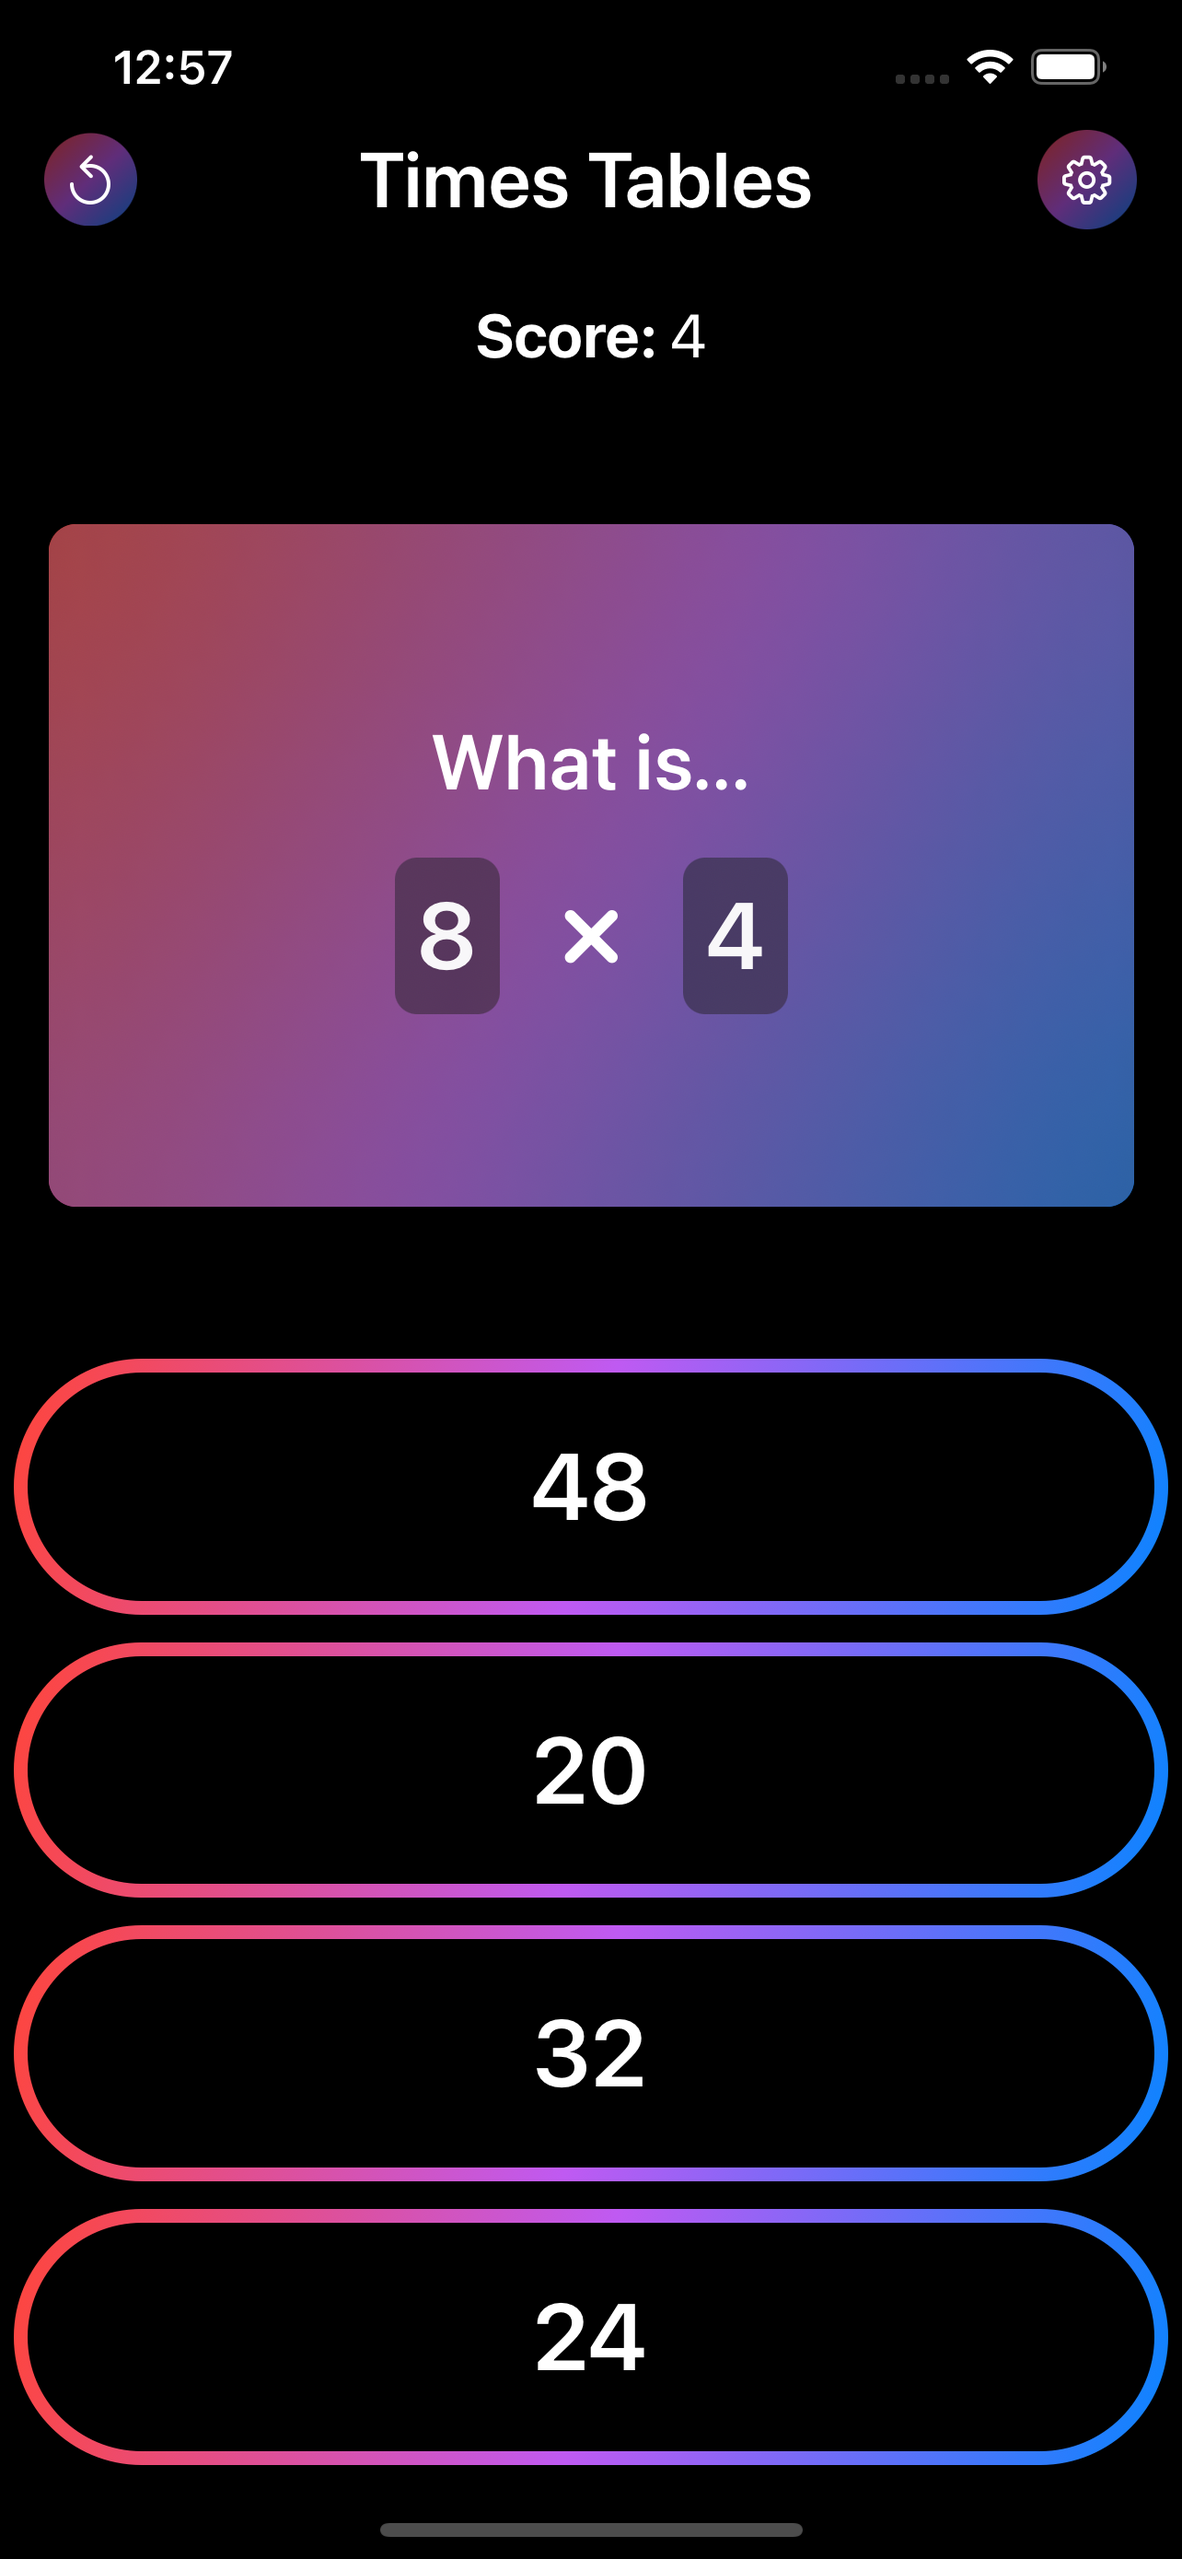
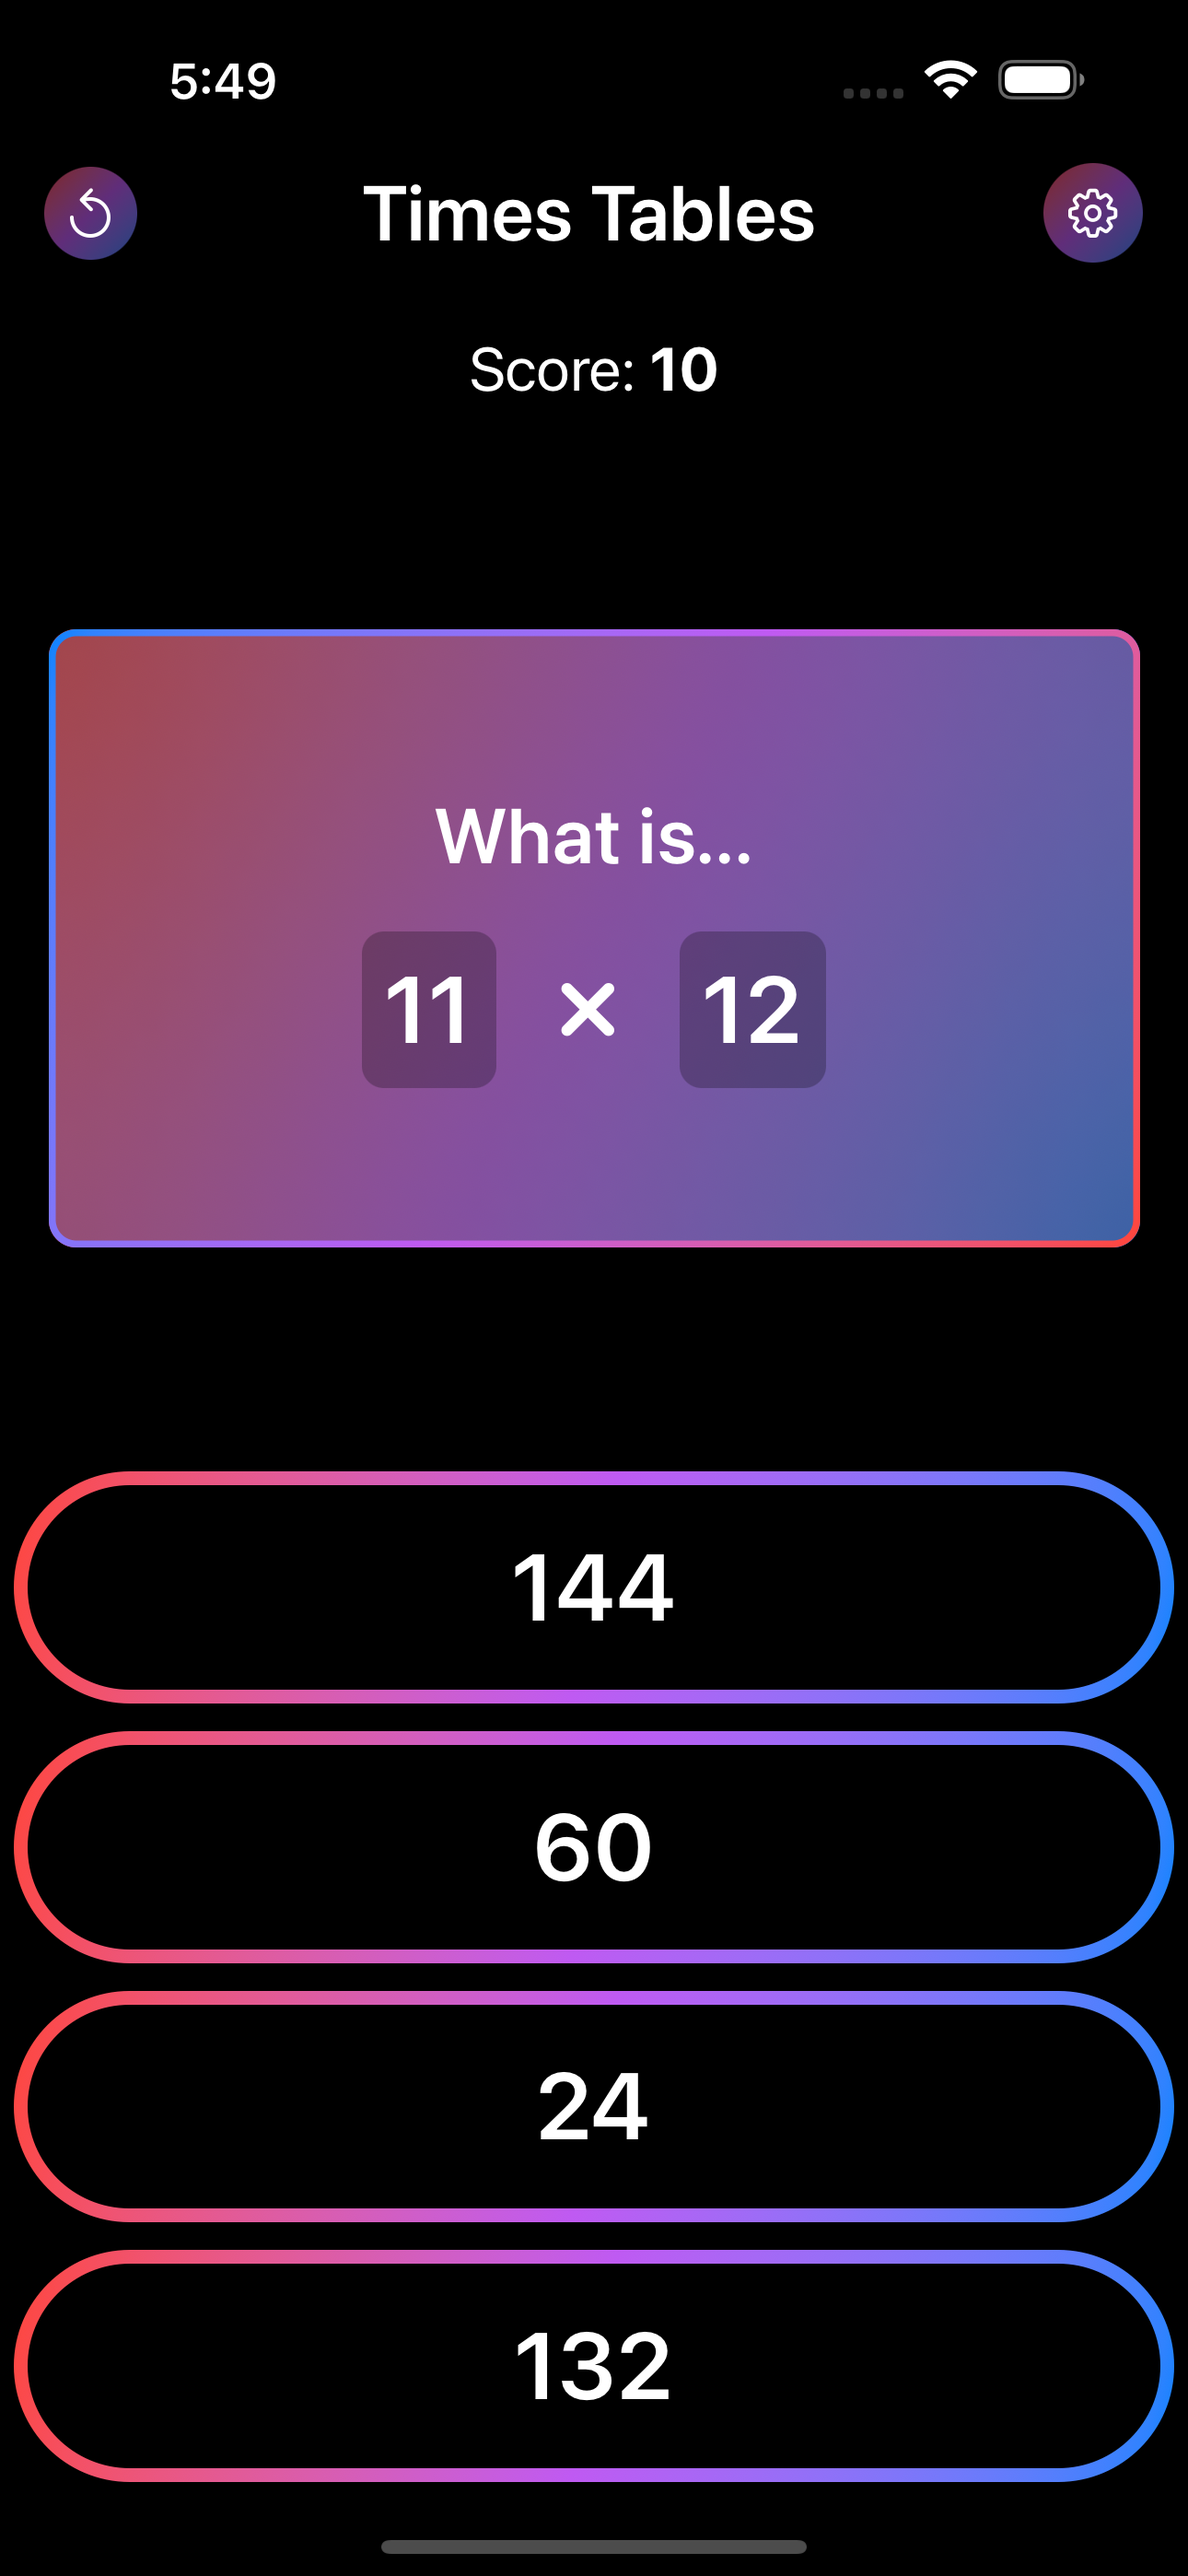
Refactor `ZStack`s to use `.overlay` instead and Add border to `QuestionCardView`

diff --git a/TimesTables/Screens/GameView Components/QuestionCardView.swift b/TimesTables/Screens/GameView Components/QuestionCardView.swift
@@ -17,54 +17,82 @@ struct QuestionCardView: View {
 	var endPoint: UnitPoint = .bottomTrailing
 
 	var body: some View {
-		ZStack {
-			RoundedRectangle(cornerRadius: 10)
-				.foregroundStyle(.ultraThinMaterial)
-				.background(
-					.linearGradient(
-						colors: gradientColors,
-						startPoint: startPoint,
-						endPoint: endPoint
-					)
-				)
-				.frame(
-					width: proxy.size.width - 35,
-					height: proxy.size.height/3.75
-				)
-				.clipShape(RoundedRectangle(cornerRadius: 10))
-
-			VStack {
-				Text("What is...")
-					.font(.title.weight(.semibold))
-
-				HStack(spacing: 20) {
-					Text(num1, format: .number)
-						.padding(8)
-						.background(.thinMaterial)
-						.clipShape(RoundedRectangle(cornerRadius: 8))
-
-					Image(systemName: "multiply")
-						.font(.title.weight(.bold))
-
-					Text(num2, format: .number)
-						.padding(8)
-						.background(.thinMaterial)
-						.clipShape(RoundedRectangle(cornerRadius: 8))
-
+		backgroundRoundedRect
+			.overlay {
+				ZStack {
+					roundedRectBorderShape
+					cardContent
 				}
-				.font(.largeTitle.weight(.semibold))
 			}
-			.padding()
-		}
-
 	}
 }
 
 struct QuestionCardView_Previews: PreviewProvider {
 	static var previews: some View {
 		GeometryReader { proxy in
-			QuestionCardView(proxy: proxy, num1: 0, num2: 1)
-				.preferredColorScheme(.dark)
+			HStack {
+				QuestionCardView(proxy: proxy, num1: 0, num2: 1)
+			}
+			.frame(maxWidth: .infinity, maxHeight: .infinity)
 		}
+		.preferredColorScheme(.dark)
 	}
+}
+
+fileprivate extension QuestionCardView {
+	var backgroundRoundedRect: some View {
+		RoundedRectangle(cornerRadius: 10)
+			.foregroundStyle(.ultraThinMaterial)
+			.background(
+				.linearGradient(
+					colors: gradientColors,
+					startPoint: startPoint,
+					endPoint: endPoint
+				),
+				in: RoundedRectangle(cornerRadius: 10)
+			)
+			.frame(
+				width: proxy.size.width - 35,
+				height: proxy.size.height/3.75
+			)
+	}
+
+	var roundedRectBorderShape: some View {
+		RoundedRectangle(cornerRadius: 10)
+			.strokeBorder(
+				.linearGradient(
+					colors: gradientColors,
+					startPoint: endPoint,
+					endPoint: startPoint
+				),
+				lineWidth: 2.5
+			)
+	}
+
+	var cardContent: some View {
+		VStack {
+			Text("What is...")
+				.font(.title.weight(.semibold))
+
+			HStack(spacing: 20) {
+				Text(num1, format: .number)
+					.padding(8)
+					.background(.background.opacity(0.25))
+					.clipShape(RoundedRectangle(cornerRadius: 8))
+
+				Image(systemName: "multiply")
+					.font(.title.weight(.bold))
+
+				Text(num2, format: .number)
+					.padding(8)
+					.background(.background.opacity(0.25))
+					.clipShape(RoundedRectangle(cornerRadius: 8))
+
+			}
+			.font(.largeTitle.weight(.semibold))
+		}
+		.padding()
+
+	}
+
 }

diff --git a/TimesTables/Screens/GameView Components/AnswerCardView.swift b/TimesTables/Screens/GameView Components/AnswerCardView.swift
@@ -16,24 +16,23 @@ struct AnswerCardView: View {
 	let endPoint: UnitPoint = .bottomTrailing
 
 	var body: some View {
-		ZStack {
-			Capsule()
-				.strokeBorder(
-					.linearGradient(
-						colors: gradientColors,
-						startPoint: startPoint,
-						endPoint: endPoint
-					),
-					style: .init(lineWidth: 5)
-				)
-				.frame(
-					width: proxy.size.width - 10,
-					height: (proxy.size.height/10)
-				)
-
-			Text(value, format: .number)
-				.font(.largeTitle.weight(.semibold))
-		}
+		Capsule()
+			.strokeBorder(
+				.linearGradient(
+					colors: gradientColors,
+					startPoint: startPoint,
+					endPoint: endPoint
+				),
+				style: .init(lineWidth: 5)
+			)
+			.frame(
+				width: proxy.size.width - 10,
+				height: (proxy.size.height/10)
+			)
+			.overlay {
+				Text(value, format: .number)
+					.font(.largeTitle.weight(.semibold))
+			}
 	}
 }
 

diff --git a/TimesTables/Screens/GameView.swift b/TimesTables/Screens/GameView.swift
@@ -16,23 +16,29 @@ struct GameView: View {
 			VStack {
 				CustomTopBarView(vm: vm)
 
-				(Text("Score: ").bold() + Text(vm.score, format: .number))
+				(Text("Score: ") + Text(vm.score, format: .number).bold())
 					.font(.title2)
 
 				Spacer()
 
-				QuestionCardView(proxy: proxy, num1: vm.lhsNum, num2: vm.rhsNum)
+				QuestionCardView(
+					proxy: proxy,
+					num1: vm.lhsNum,
+					num2: vm.rhsNum
+				)
 
 				Spacer()
 
 				VStack(spacing: 10) {
 					ForEach(vm.possibleAnswers, id: \.self) { ans in
-						AnswerCardView(
-							proxy: proxy,
-							value: ans
-						).onTapGesture {
+						Button {
 							vm.answerButtonTapped(ans)
-						}
+						} label: {
+							AnswerCardView(
+								proxy: proxy,
+								value: ans
+							)
+						}.buttonStyle(.plain)
 					}
 				}
 			}

diff --git a/TimesTables/TimesTablesViewModel.swift b/TimesTables/TimesTablesViewModel.swift
@@ -41,9 +41,8 @@ class TimesTablesViewModel: ObservableObject {
 
 		while possibleAnswers.count < 4 {
 			let mult = Int.random(in: 1...12) * rhsNum
-			if !(mult == correctAnswer) {
-				possibleAnswers.append(mult)
-			}
+			guard mult != correctAnswer else { continue }
+			possibleAnswers.append(mult)
 		}
 
 		possibleAnswers.shuffle()

diff --git a/TimesTables/Screens/GameView Components/CustomTopBarView.swift b/TimesTables/Screens/GameView Components/CustomTopBarView.swift
@@ -21,7 +21,6 @@ struct CustomTopBarView: View {
 
 			Text("Times Tables")
 				.font(.title.weight(.semibold))
-				.foregroundColor(.white)
 
 			Spacer(minLength: 0)
 
